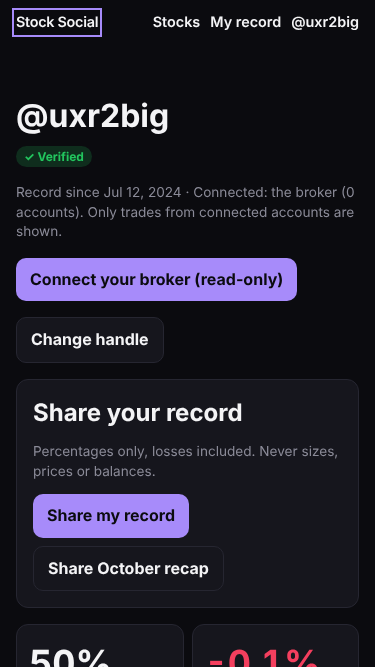
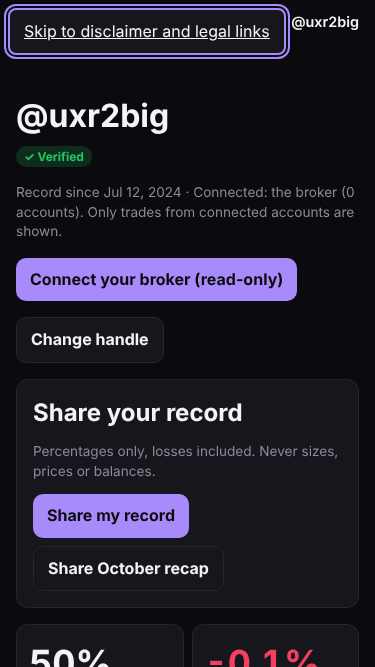
F-1 PR-3 committee re-sit: UX lead (compliance PASS, usability PASS); round 6 edits in progress
Claude-Session: https://claude.ai/code/session_01ALhngsd3WswbwHjyaBLuhT

Changed region(s): [[0.0, 0.0, 0.792, 0.09]]

diff --git a/e2e/fakes/vendor.ts b/e2e/fakes/vendor.ts
@@ -44,6 +44,9 @@ export function generateActivities(accountId: string, n: number): FakeActivity[]
 // PR-3 (heavy-use tests): a reproducible, realistic history from a seed. Several symbols per account, buys of varying
 // size, partial and full sells across lots (FIFO), fees, same-instant ties, and an occasional sell with no recorded entry
 // (excluded, never guessed). Times move forward from 2020-01-01 in steps of minutes to days. Same seed, same rows.
+// F-1 PR-3 fix round 6: a long history (2,500 rows reach about 2030) is shifted back as a whole so its last row is at
+// SEEDED_END, a fixed past date: the import quarantines trades dated in the future (lib/sync.ts#FUTURE_GRACE_HOURS).
+export const SEEDED_END = Date.UTC(2026, 0, 1);
 export function seededActivities(accountId: string, n: number, seed: number): FakeActivity[] {
   let t = seed >>> 0;
   const rnd = () => { t = (t + 0x6d2b79f5) >>> 0; let x = Math.imul(t ^ (t >>> 15), 1 | t); x = (x + Math.imul(x ^ (x >>> 7), 61 | x)) ^ x; return ((x ^ (x >>> 14)) >>> 0) / 4294967296; };
@@ -63,6 +66,8 @@ export function seededActivities(accountId: string, n: number, seed: number): Fa
     held.set(symbol, sell ? Math.max(0, have - units) : have + units);
     out.push({ id: `${accountId}-${i}`, symbol, type: sell ? 'SELL' : 'BUY', units, price: Math.round(p * 100) / 100, fee: Math.round(rnd() * 100) / 100, trade_date: new Date(at).toISOString() });
   }
+  const back = Math.max(0, at - SEEDED_END);
+  if (back) for (const r of out) r.trade_date = new Date(new Date(r.trade_date).getTime() - back).toISOString();
   return out;
 }
 

diff --git a/docs/features/logs/F-1/committee-pr3-ux-lead-round2.md b/docs/features/logs/F-1/committee-pr3-ux-lead-round2.md
@@ -1,0 +1,50 @@
+COMPLIANCE: PASS · USABILITY: PASS
+
+# F-1 · PR-3 committee · UX lead · round 2
+
+2026-10-23, `b95f281`, fresh `CI=1` build (the framework's advisory stopped it once; nothing upgraded), port 3102,
+fake 4172, reduced motion, keyboard only, 375/360 px, light/dark. Screenshots: `screenshots/pr3/committee-ux-round2/`.
+
+## Heavy profile (2,828 closes)
+
+| | Visitor | Owner |
+|---|---|---|
+| HTML | 235 KB | 275 KB |
+| Height | 5,100 px | 7,959 px |
+| Rows | 50, "Showing 50 of 2,828 closed trades" | same |
+| First Tab stop | the skip link; Enter focuses the footer with the disclaimer in view | same |
+| Tab presses to the footer without the skip link | 115 | 219 |
+
+- **"Show 50 more"** (44 px).
+  - JS off: row 51 is in view under "Showing 51–100…".
+  - JS on: Enter moves focus to row 51.
+- **Last page** (56 follows): "Showing 2,801–2,828 of 2,828", 28 rows, only "Back to the newest".
+- **Chart.** 2,828 point links over 57 pages, none to a missing row. Keyboard: arrows, Enter, "Go to trade in list"
+  focuses that trade on its page.
+- **Format.** Every count grouped; a range reads "(-0.4% to 0.0%)"; a near-total loss "-99.999%". No horizontal scroll.
+
+## Long import (4 × 1,500, 2.5 s pages, forced 503 at 3,000)
+
+- **Progress announcements.** The live region said "1,000 / 1,500 / 2,500 / 3,000 activities imported so far" at
+  5/10/15/20 s, while the status line still showed 0 closes.
+- **Timeout wording.** 59 s after the last new row: "Still waiting for your broker. You can leave; the import
+  continues." It never said "still sending".
+- A parallel test run on the shared database finished this import early (2 accounts empty), so "N closed trades so
+  far" was not seen; Re-run 3 covers it. Environment, not product.
+
+## Evidence line
+
+Overlapping record (400-day holds): "Too early to tell: 2,828 trades in 8 overlapping positions
+(10 independent bets needed)".
+
+## Compliance: PASS
+
+Disclaimer and legal links are one key press from the top; every close and chart point stays reachable.
+
+## Notes (not blocking)
+
+- The owner needs 219 Tab presses to reach the footer (a thesis form on every row). The skip link covers this.
+- A "0.0%" average still shows in the loss colour.
+- The footer's focus ring is only its top border.
+
+Server and fake stopped; test users deleted.
